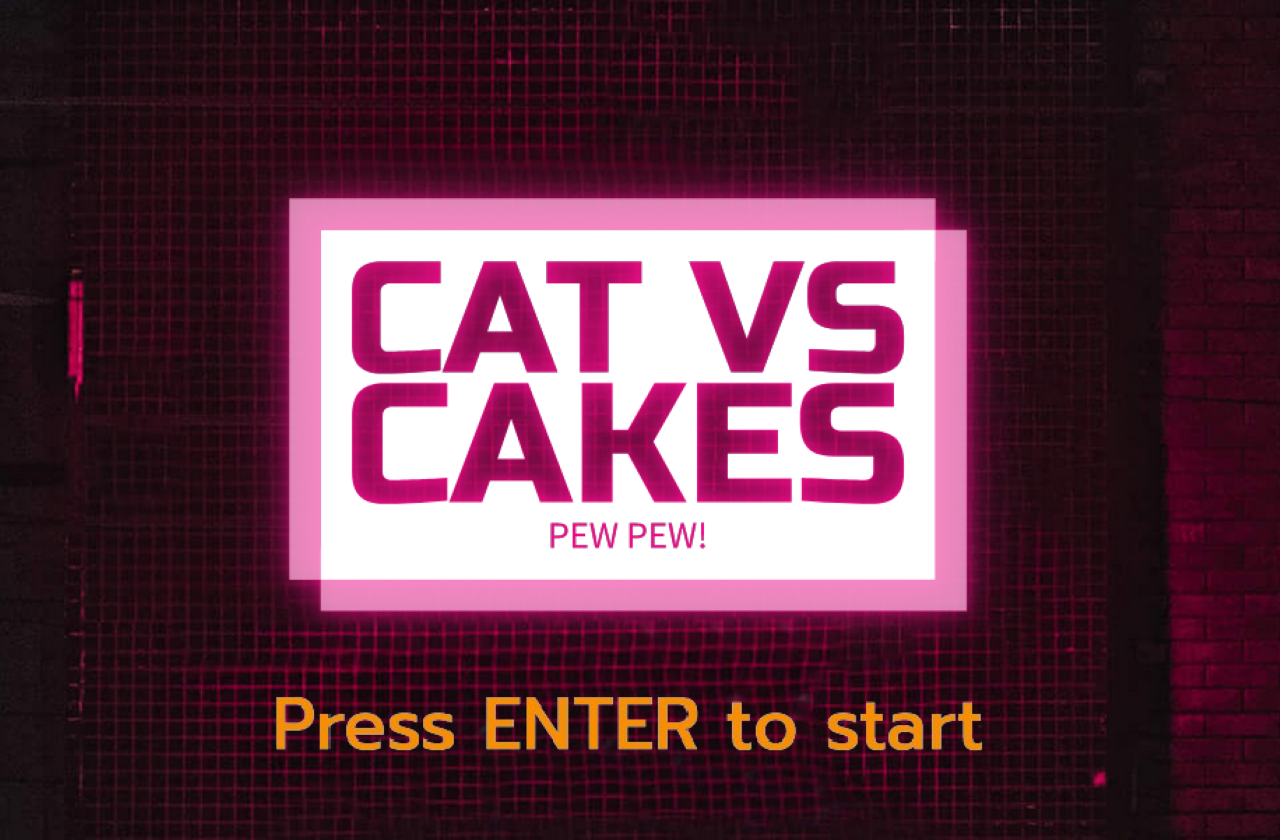
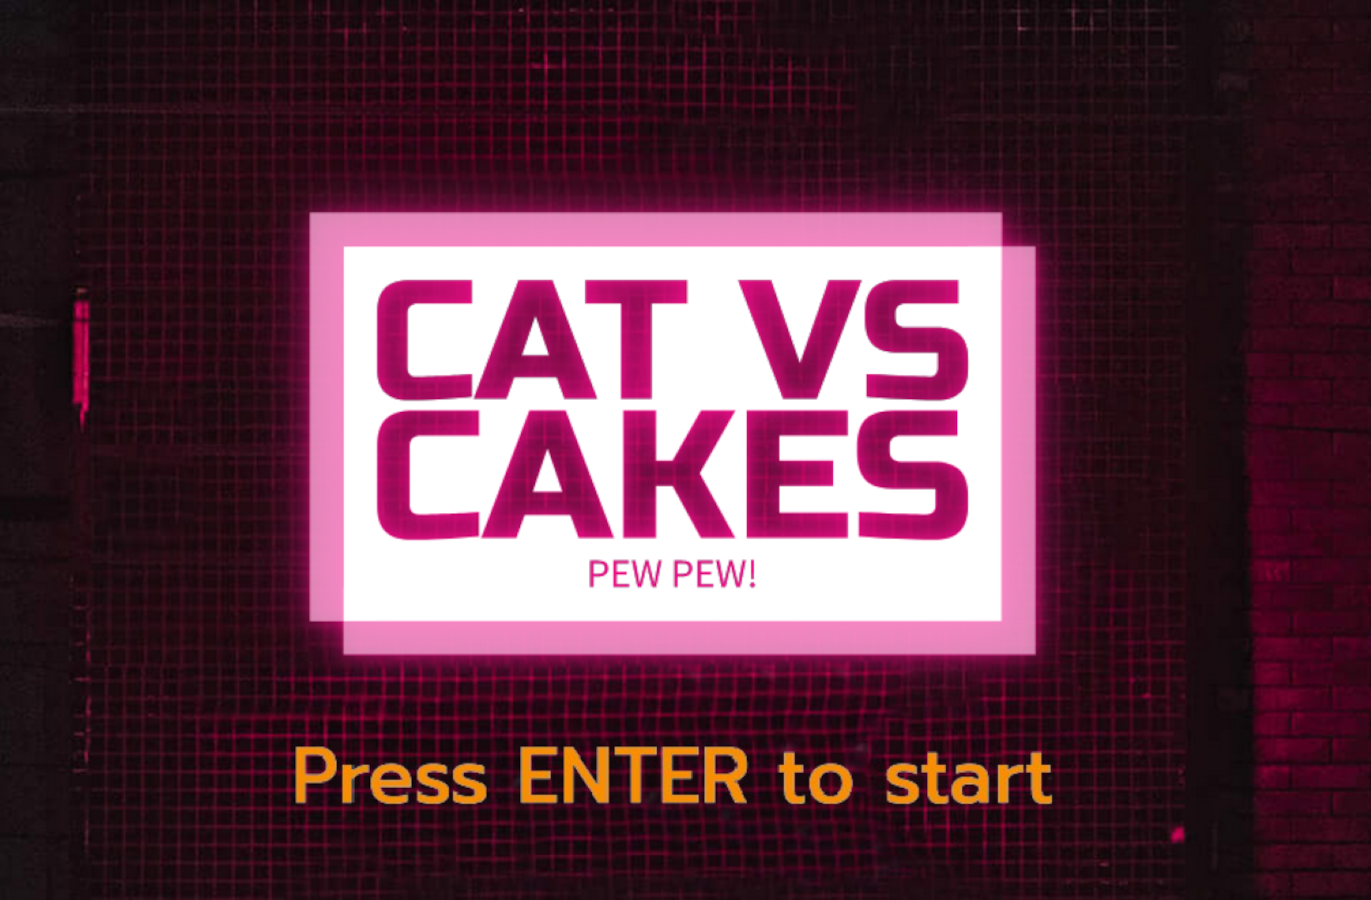
main menu edits

Changed region(s): [[0.4375, 0.619, 0.5625, 0.65]]

diff --git a/main.py b/main.py
@@ -6,7 +6,7 @@ pygame.init()
 
 
 width = 1280
-height = 854
+height = 900
 displaySurface = pygame.display.set_mode((width, height))
 screen_rect = displaySurface.get_rect()
 pygame.display.set_caption("Cat VS Cakes")
@@ -29,7 +29,7 @@ pink = (255, 0, 130)
 bulletEvent = pygame.event.Event(pygame.USEREVENT + 1)
 pygame.time.set_timer(bulletEvent, 1000)
 
-bulletspeed = [0, -1]  # bullets move up only
+bulletspeed = [0, -2]  # bullets move up only
 bullets = []
 bcoordinates = []
 bspeedlist = []
@@ -80,8 +80,10 @@ pygame.mixer.music.load("gamemusic.wav")
 pygame.mixer.music.play(-1)
 
 menu = pygame.image.load("main_menu.png").convert()
-displaySurface.blit(menu, (100, 100))
-menuArea = menu.get_rect(topleft=(100,100))
+displaySurface.blit(menu, (0, 0))
+menuArea = menu.get_rect(topleft=(0,0))
+
+
 
 while True:
     
@@ -134,6 +136,7 @@ while True:
                                 if points <= 0:
                                     gameoverArea = gameover.get_rect(topleft=(0,0)) # gameover screen appears
                                     textArea = endingtext.get_rect(center = (600, 452))
+
 
                         j = 0  # every time a collision between pie and bullet happens, both of them are removed from the lists
                         for i in range(len(pieList) - 1, -1, -1):
